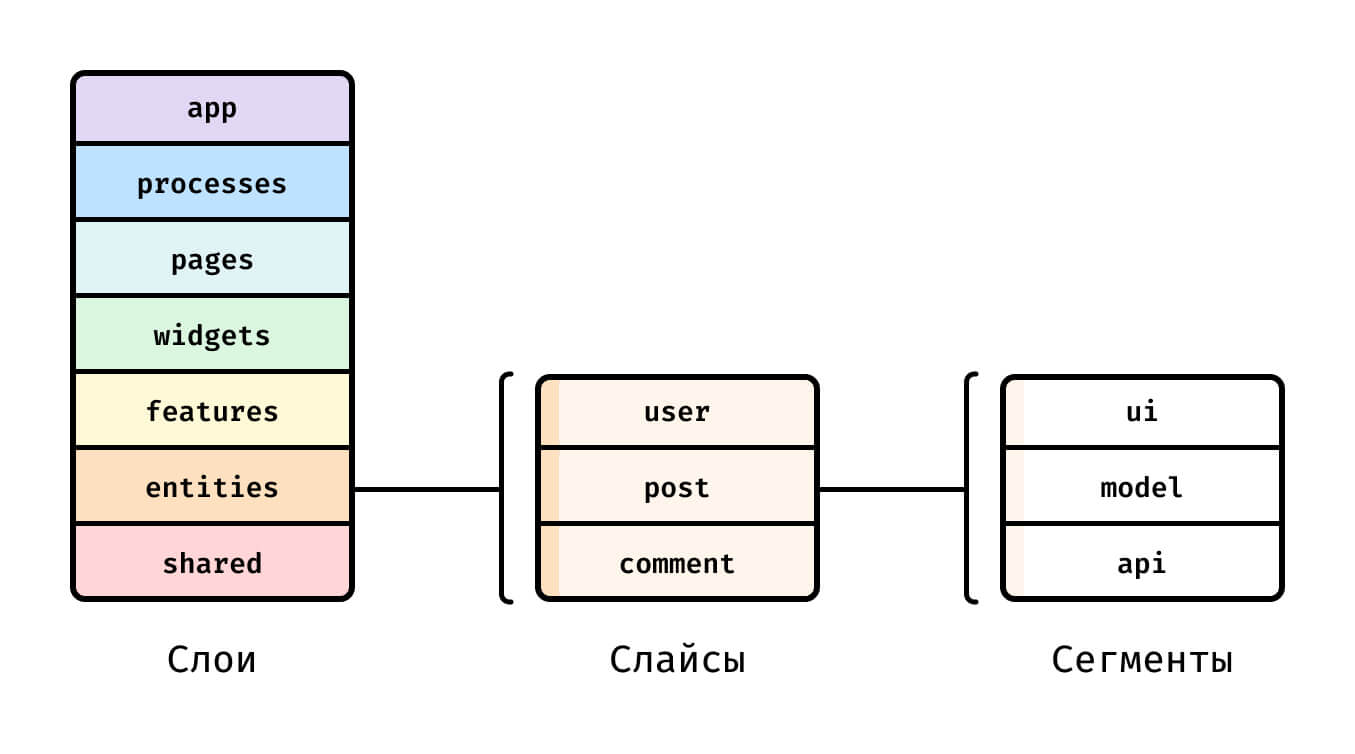
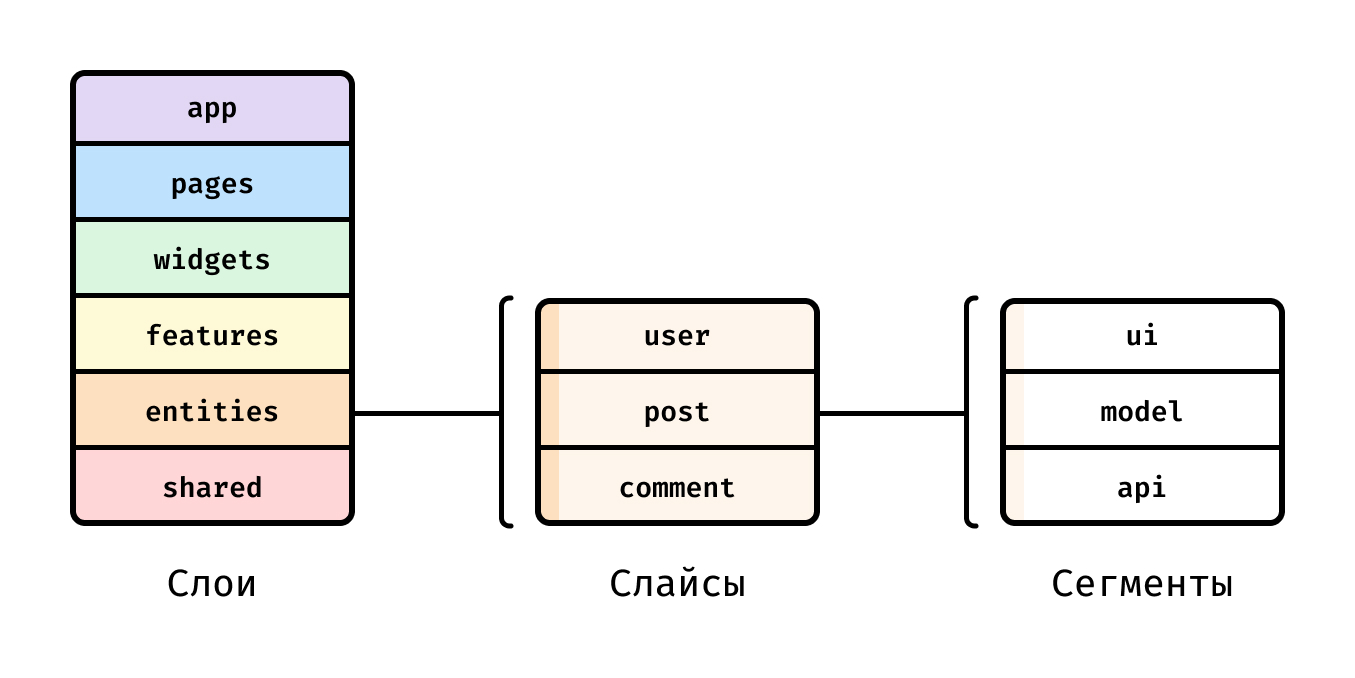
Address the rich data tables and layouts use case Also purge the processes layer

diff --git a/i18n/ru/docusaurus-plugin-content-docs/current/get-started/overview.md b/i18n/ru/docusaurus-plugin-content-docs/current/get-started/overview.md
@@ -23,7 +23,7 @@ FSD подходит для проектов и команд любого раз
 
 ![themed--scheme](/img/visual_schema.jpg)
 
-**Слои** стандартизированы во всех проектах и расположены вертикально. Модули на одном слое могут взаимодействовать лишь с модулями, находящимися на слоях строго ниже. На данный момент слоев семь (снизу вверх):
+**Слои** стандартизированы во всех проектах и расположены вертикально. Модули на одном слое могут взаимодействовать лишь с модулями, находящимися на слоях строго ниже. На данный момент слоев шесть (снизу вверх):
 
 1. `shared` — переиспользуемый код, не имеющий отношения к специфике приложения/бизнеса.
     <small>(например, UIKit, libs, API)</small>
@@ -34,9 +34,7 @@ FSD подходит для проектов и команд любого раз
 4. `widgets` (виджеты) — композиционный слой для соединения сущностей и фич в самостоятельные блоки
     <small>(например, IssuesList, UserProfile)</small>.
 5. `pages` (страницы) — композиционный слой для сборки полноценных страниц из сущностей, фич и виджетов.
-6. `processes` — сложные сценарии, покрывающие несколько страниц.
-    <small>(например, авторизация)</small>
-7. `app` — настройки, стили и провайдеры для всего приложения.
+6. `app` — настройки, стили и провайдеры для всего приложения.
 
 Затем есть **слайсы**, разделяющие код по предметной области. Они группируют логически связанные модули, что облегчает навигацию по кодовой базе. Слайсы не могут использовать другие слайсы на том же слое, что обеспечивает высокий уровень [_связности_][refs-wiki-cohesion] (cohesion) при низком уровне [_зацепления_][refs-wiki-coupling] (coupling).
 
@@ -53,7 +51,6 @@ FSD подходит для проектов и команд любого раз
 Рассмотрим приложение социальной сети.
 
 * `app/` содержит настройку роутера, глобальные хранилища и стили.
-* `processes/` содержит часть аутентификации, отвечающую за чтение/запись токенов аутентификации.
 * `pages/` содержит компоненты роутов на каждую страницу в приложении, преимущественно композирующие, по возможности, без собственной логики.
 
 В рамках этого приложения рассмотрим карточку поста в ленте новостей.

diff --git a/i18n/en/docusaurus-plugin-content-docs/current/get-started/overview.md b/i18n/en/docusaurus-plugin-content-docs/current/get-started/overview.md
@@ -22,7 +22,7 @@ In FSD, a project consists of <mark>layers</mark>, each layer is made up of <mar
 
 ![themed--scheme](/img/visual_schema.jpg)
 
-The **layers** are standardized across all projects and vertically arranged. Modules on one layer can only interact with modules from the layers strictly below. There are currently seven of them (bottom to top):
+The **layers** are standardized across all projects and vertically arranged. Modules on one layer can only interact with modules from the layers strictly below. There are currently six of them (bottom to top):
 
 1. `shared` — reusable functionality, detached from the specifics of the project/business.
    <small>(e.g. UIKit, libs, API)</small>
@@ -33,9 +33,7 @@ The **layers** are standardized across all projects and vertically arranged. Mod
 4. `widgets` — compositional layer to combine entities and features into meaningful blocks.
    <small>(e.g. IssuesList, UserProfile)</small>
 5. `pages` — compositional layer to construct full pages from entities, features and widgets.
-6. `processes` — complex inter-page scenarios. 
-   <small>(e.g., authentication)</small>
-7. `app` — app-wide settings, styles and providers.
+6. `app` — app-wide settings, styles and providers.
 
 
 Then there are **slices**, which partition the code by business domain. This makes your codebase easy to navigate by keeping logically related modules close together. Slices cannot use other slices on the same layer, and that helps with high cohesion and low coupling.
@@ -53,7 +51,6 @@ In most cases, [it is recommended][ext-disc-api] to place `api` and `config` onl
 Let's consider a social network application.
 
 * `app/` contains setup of routing, store and global styles.
-* `processes/` contains the part of authentication that is responsible for reading/writing authentication tokens.
 * `pages/` contains the route components for each page in the app, mostly composition, hardly any logic.
 
 Within that application, let's consider a post card in a news feed.
